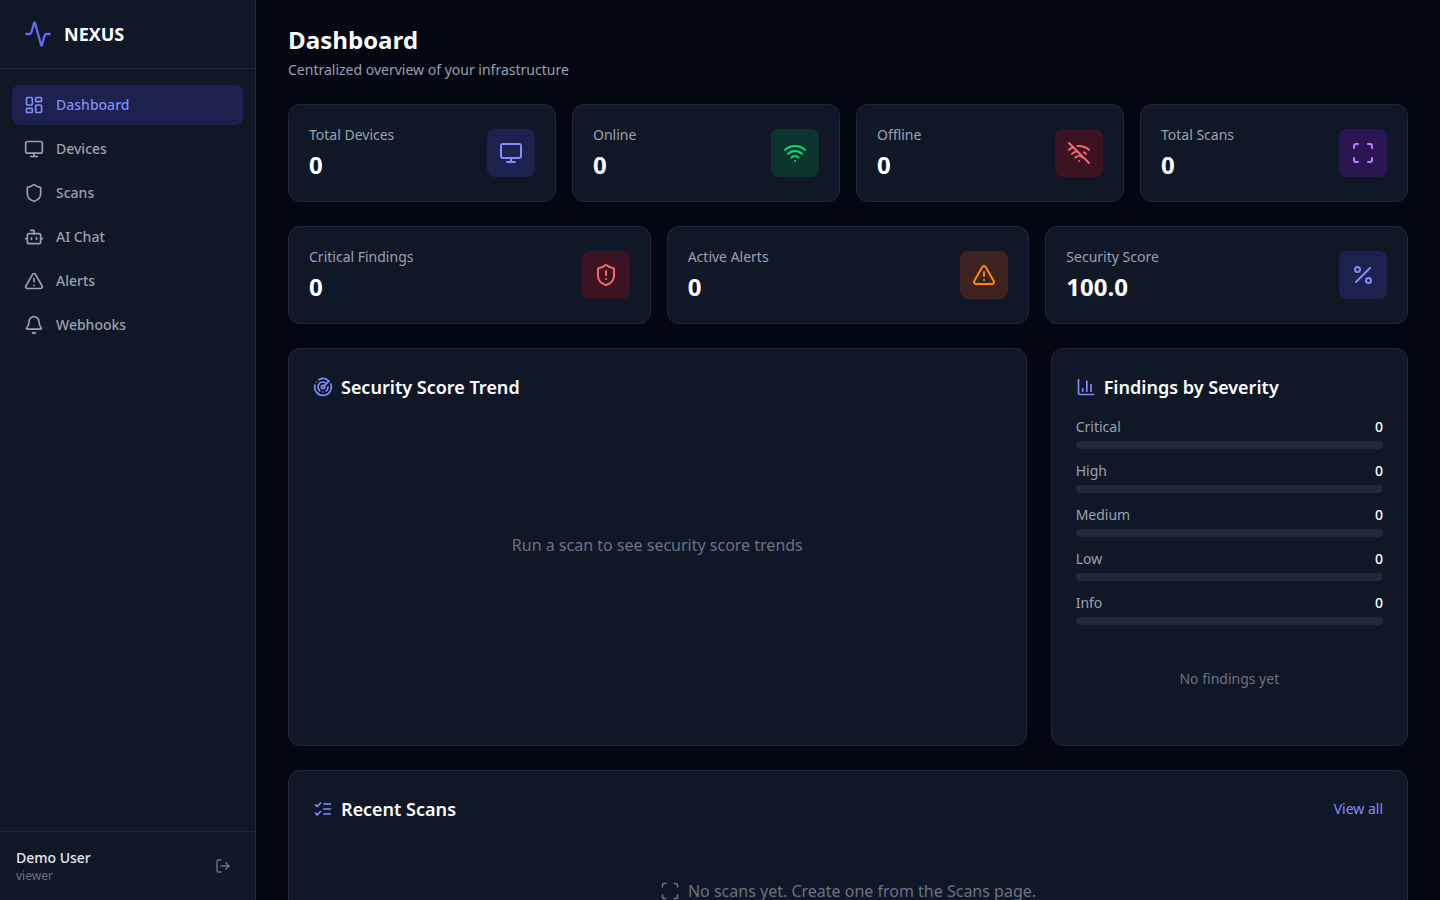
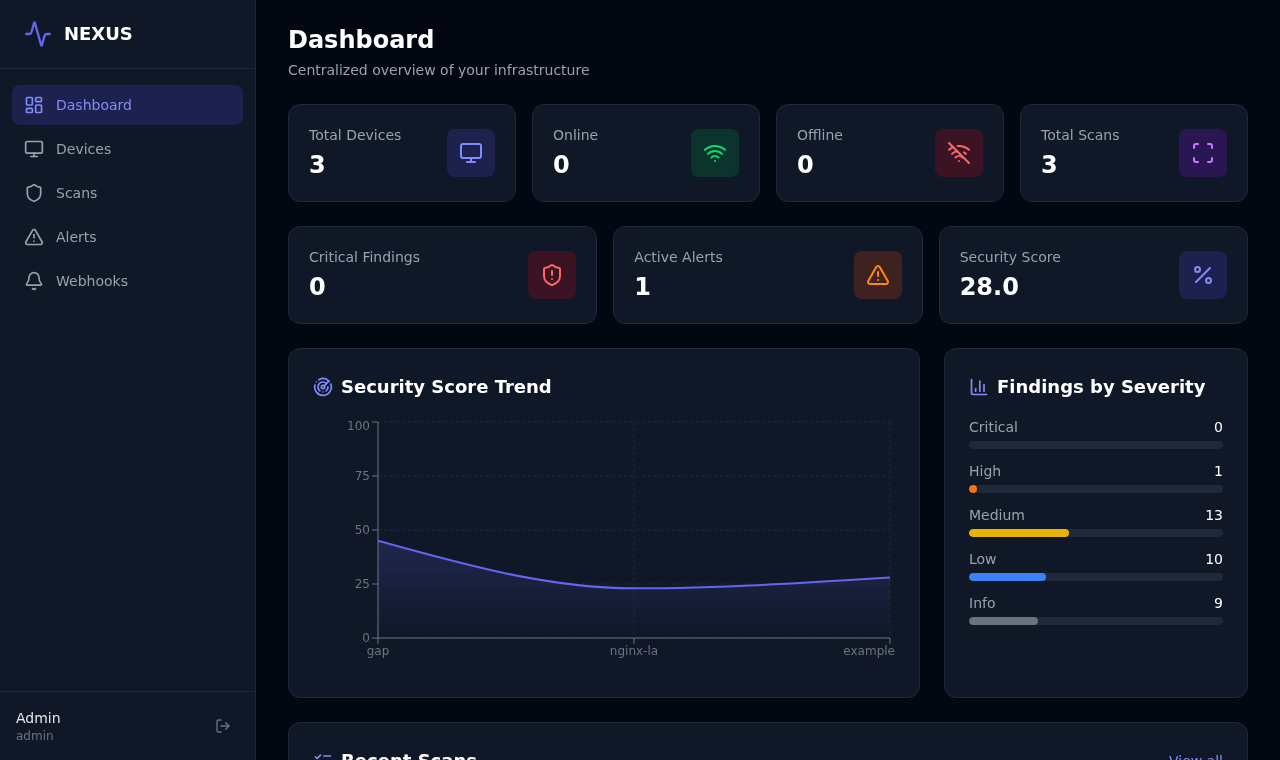
docs(demo): refresh README and screenshots for populated demo

diff --git a/README.md b/README.md
@@ -13,9 +13,9 @@
 [![Tests](https://img.shields.io/badge/tests-127%20passing-success?style=flat-square)]()
 [![Ruff](https://img.shields.io/badge/Ruff-0.9-passing-success?style=flat-square)]()
 [![License](https://img.shields.io/badge/license-MIT-yellow?style=flat-square)]()
-[![Live Demo](https://img.shields.io/badge/demo-live-success?style=flat-square&logo=render)](https://nexus-frontend-got9.onrender.com)
+[![Live Demo](https://img.shields.io/badge/demo-live-success?style=flat-square&logo=cloudflare)](https://nexus-f0u.pages.dev)
 
-**Dashboard** • **Devices** • **Scans** • **AI Analysis** • **Alerts** • **Webhooks** • **Grafana**
+**Dashboard** • **Devices** • **Scans** • **Alerts** • **Webhooks**
 
 </div>
 
@@ -23,11 +23,11 @@
 
 ## Screenshots
 
-| Dashboard | AI Analysis | Devices |
+| Dashboard | Scans | Devices |
 |:---:|:---:|:---:|
-| ![Dashboard](screenshots/dashboard.png) | ![AI](screenshots/ai.png) | ![Devices](screenshots/devices.png) |
-| **Scans** | **Alerts** | **Grafana** |
-| ![Scans](screenshots/scans.png) | ![Alerts](screenshots/alerts.png) | ![Grafana](screenshots/grafana.png) |
+| ![Dashboard](screenshots/dashboard.png) | ![Scans](screenshots/scans.png) | ![Devices](screenshots/devices.png) |
+| **Scan Detail** | **Alerts** | |
+| ![Scan Detail](screenshots/scan-detail.png) | ![Alerts](screenshots/alerts.png) | |
 
 ---
 
@@ -93,7 +93,6 @@ graph TB
 ## Features
 
 - **Security Scanning** — Probe devices, run full/quick/headers/SSL scans, detect misconfigurations and vulnerabilities
-- **AI Analysis** — LLM-powered scan analysis and anomaly detection (Ollama + LangChain)
 - **Real-time Dashboard** — Security score trend, findings breakdown by severity, recent scans and alerts
 - **Device Management** — Register and probe network devices with port scanning
 - **Alert System** — Automated alerting with resolve workflow and severity classification
@@ -368,9 +367,17 @@ Findings identified and remediated before public demo exposure:
 
 ## Deploy
 
-### Render (recommended)
+### Cloudflare (live demo)
 
-**Live demo:** [nexus-frontend-got9.onrender.com](https://nexus-frontend-got9.onrender.com)
+**Live demo:** [nexus-f0u.pages.dev](https://nexus-f0u.pages.dev) — admin account, registration disabled.
+
+| Piece | Service |
+|---|---|
+| Frontend | Cloudflare Pages (`nexus` project) |
+| API | Cloudflare Worker (`nexus-api`) proxying a quick tunnel |
+| Origin URL | KV `NEXUS_CONFIG` (`ORIGIN` key), synced by `.nexus/sync-tunnel-worker.sh` |
+
+### Render (alternative blueprint)
 
 Blueprint (`render.yaml`) — free tier:
 
